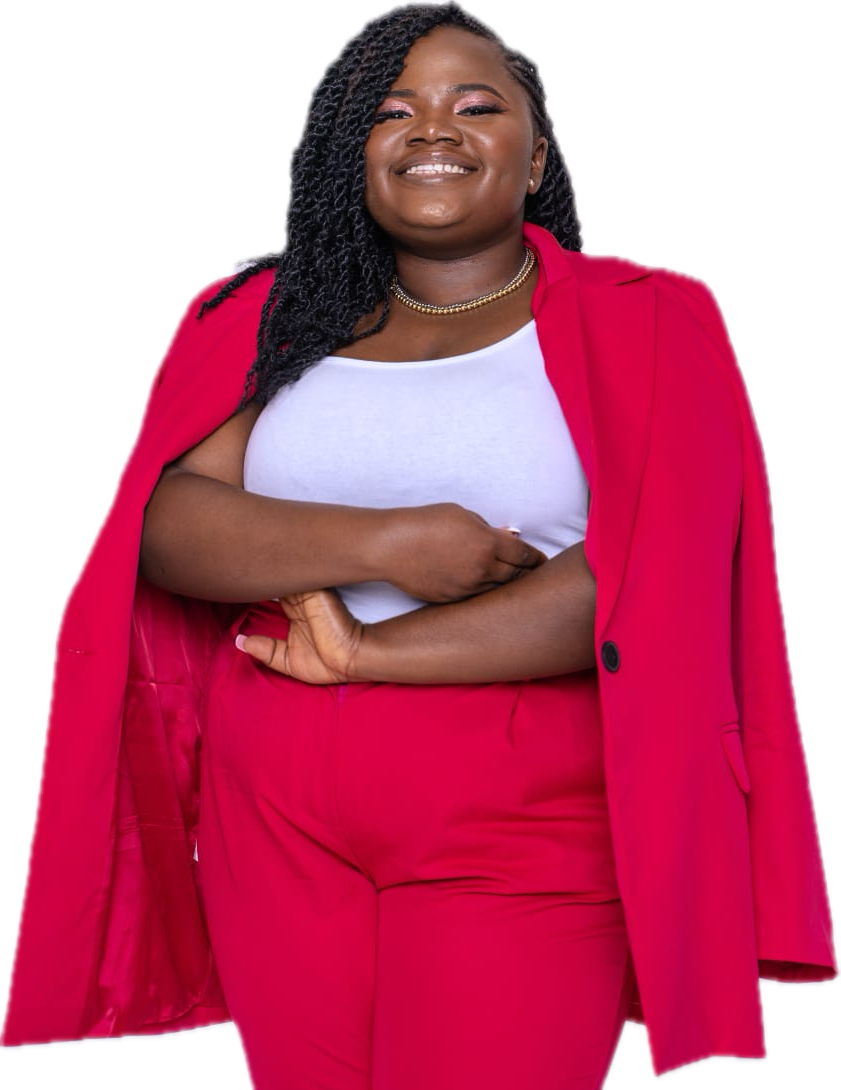
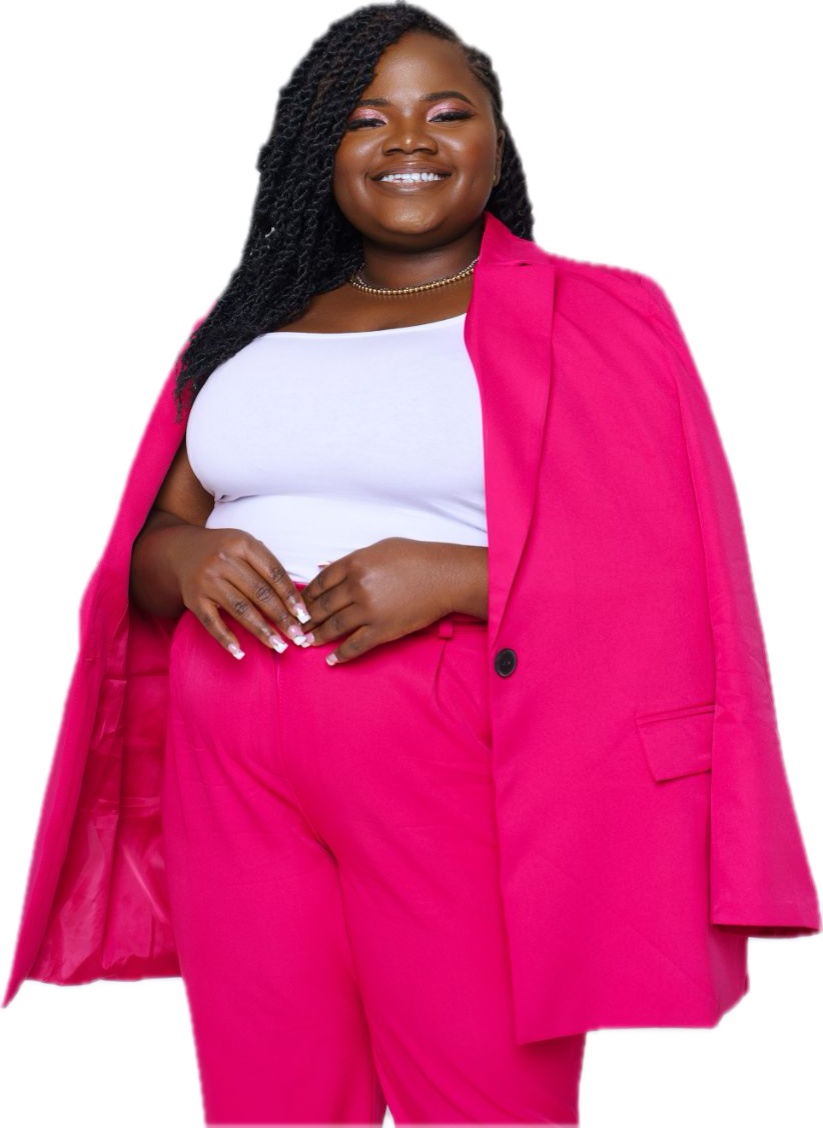
Use her second portrait cut-out on the opening screen
Claude-Session: https://claude.ai/code/session_01JXpvKwRdQkFS9xjB7t2wrN

diff --git a/src/styles/global.css b/src/styles/global.css
@@ -519,7 +519,7 @@ a:focus-visible .arrow {
   right: 0;
   bottom: 0;
   height: 100%;
-  aspect-ratio: 841 / 1090;
+  aspect-ratio: 823 / 1128;
   transform-style: preserve-3d;
   transform: rotateY(clamp(-20deg, calc(var(--mx, 0) * -8deg + var(--drag, 0deg) * 0.25), 20deg))
     rotateX(calc(var(--my, 0) * -5deg));

diff --git a/DESIGN.md b/DESIGN.md
@@ -117,3 +117,4 @@ Every design choice gets recorded here, newest at the bottom.
 | D26 | 2026-11-14 | Fonts changed to Gloock (display) and Hanken Grotesk (text). Instrument Serif and Geist are dropped. | She said the fonts looked like generic AI fonts. That pair is on a great many recent sites. Gloock is heavy, high-contrast and uncommon, and stays legible, which matters on a site about inclusion. Chosen from four pairings rendered side by side. | In use, her confirmation pending |
 | D27 | 2026-11-14 | The plate stack on the opening screen now "jumps out": it arrives from deep in the screen, overshoots toward the viewer and fans open, is larger and overlaps the end of the headline, has thickness and throws shadows, can be turned by dragging, and leans as a phone is tilted. At the last journey stop the red plate drops further away. | She asked for something that looks like it jumped out of her phone. | In use |
 | D28 | 2026-11-14 | The opening screen now shows her portrait stepping out of a frame: a rounded dark frame with a red glow, with her head and shoulders rising above its top edge. It launches toward the viewer on load, leans with the pointer or a tilted phone, and can be nudged by dragging. The plate stack moves to the journey section only. On phone the order is headline, buttons, portrait, paragraph. | She asked for something that looks like it jumped out of her phone, and sent a cut-out of herself in the red suit. Her suit matches the site's single red accent. Footer credits Mountain Photography, whose mark was on the photo and falls outside the crop. | In use |
+| D29 | 2026-11-14 | The opening portrait is replaced with a second cut-out she sent: same suit, hands relaxed at the waist, brighter pink. The first cut-out (arms folded) is kept in the project, unused. | She sent it straight after seeing the first one live, with no message, so I took it as her preferred pose. Credit to Mountain Photography is assumed from the first photo of the same shoot and needs her confirmation. | In use, credit to confirm |
